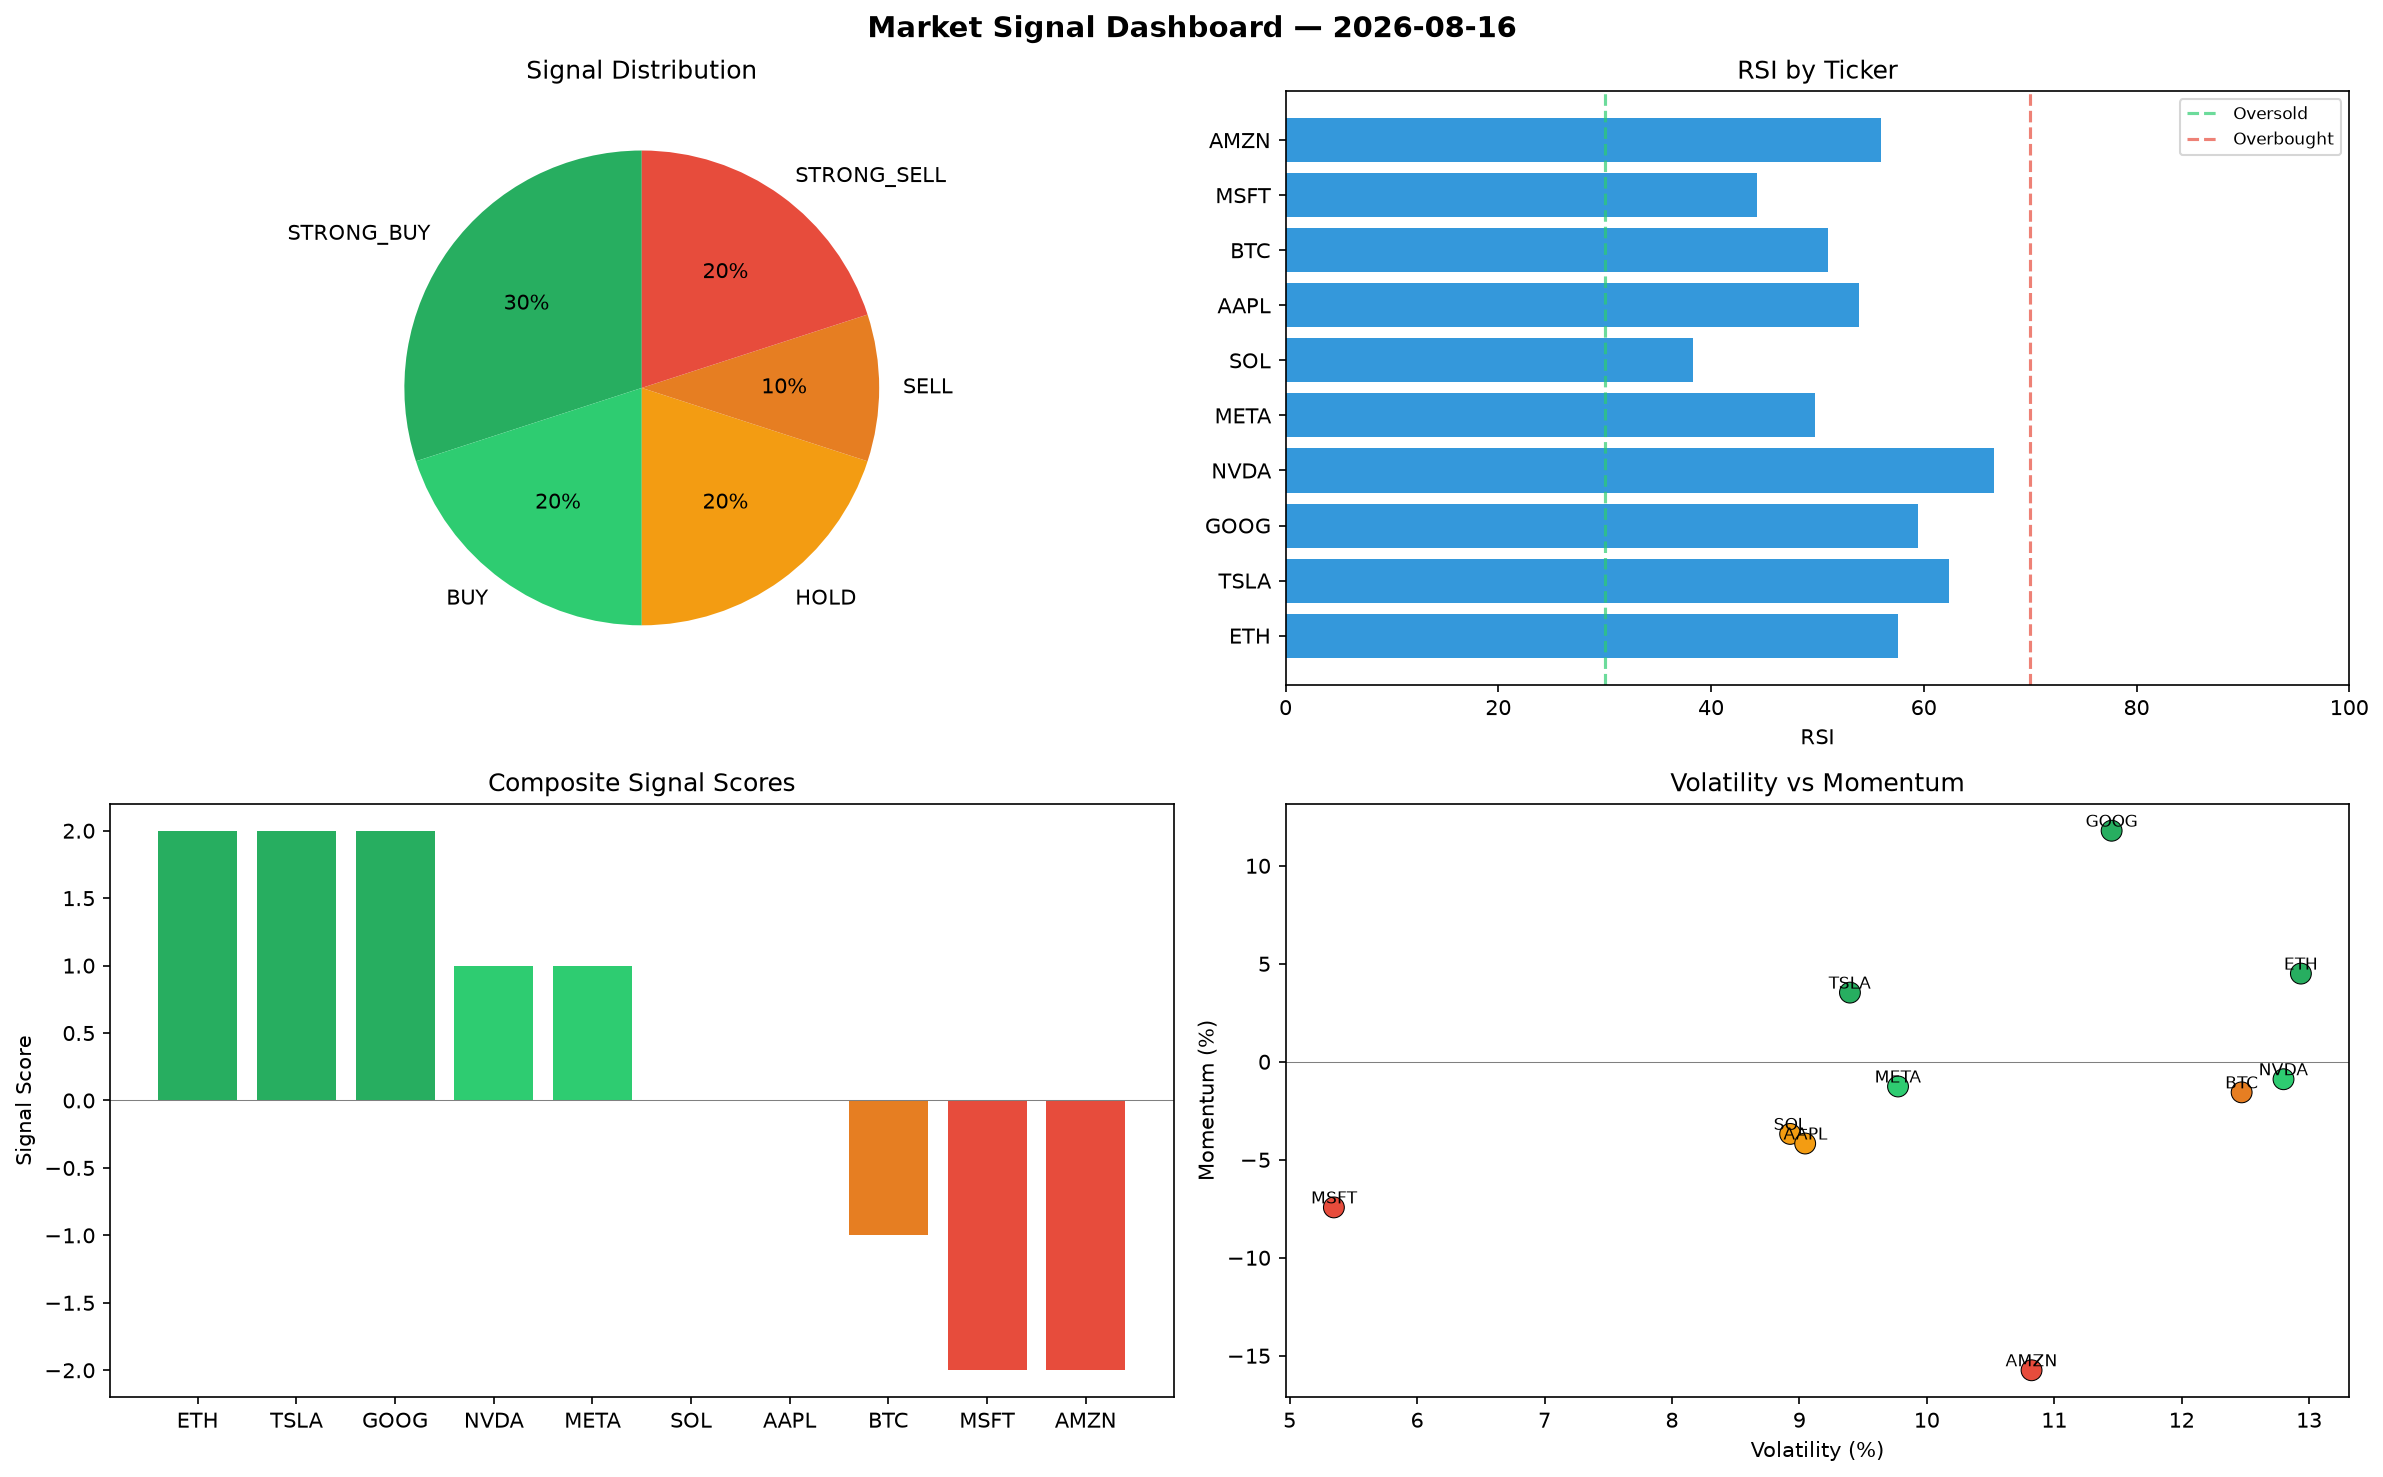
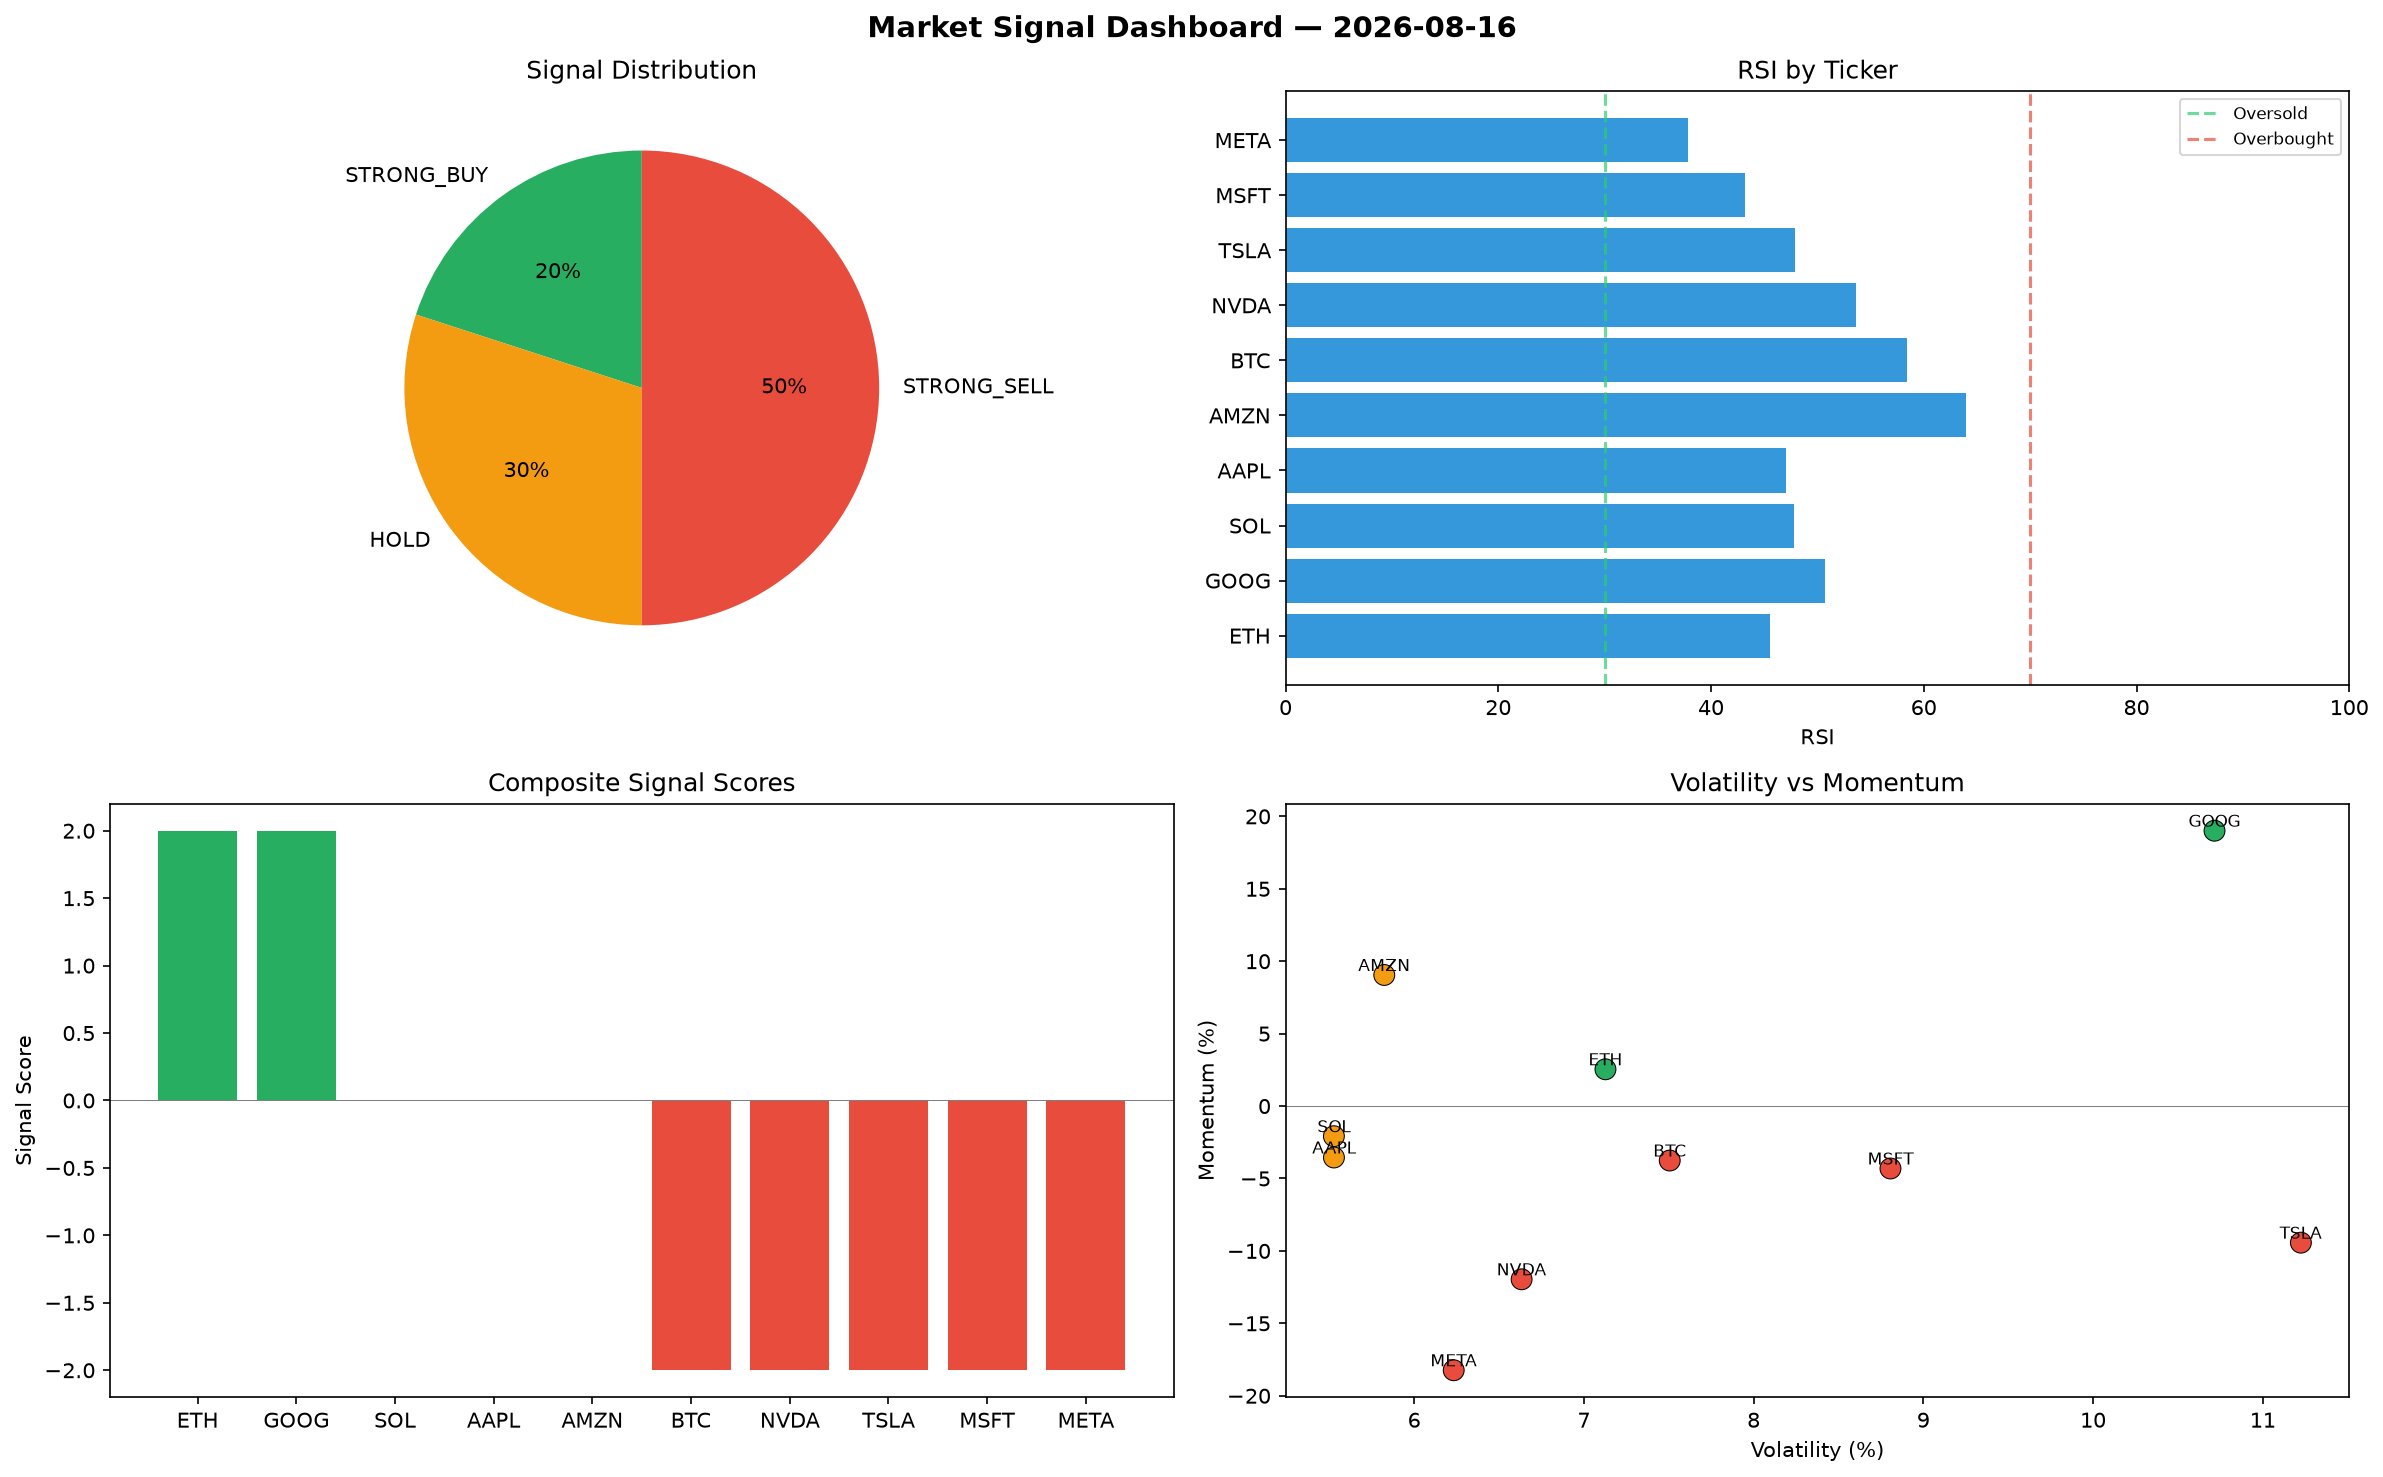
automated-bots: market signals 2026-08-16T14:49

diff --git a/logs/2026-08-16.md b/logs/2026-08-16.md
@@ -1,6 +1,6 @@
 # Market Signal Report — 2026-08-16
 
-**Run ID:** `d17da09024` | **Buy:** 5 | **Sell:** 3 | **Hold:** 2
+**Run ID:** `3098fcb004` | **Buy:** 2 | **Sell:** 5 | **Hold:** 3
 
 ![Dashboard](2026-08-16_dashboard.png)
 
@@ -8,28 +8,28 @@
 
 | Ticker | Price | Signal | Score | RSI | Momentum | Confidence |
 |--------|-------|--------|-------|-----|----------|------------|
-| ETH | $3981.36 | **STRONG_BUY** | 2 | 57.55 | 0.045 | 0.5 |
-| TSLA | $3171.77 | **STRONG_BUY** | 2 | 62.36 | 0.0353 | 0.5 |
-| GOOG | $4809.37 | **STRONG_BUY** | 2 | 59.47 | 0.1179 | 0.5 |
-| NVDA | $918.33 | **BUY** | 1 | 66.59 | -0.0089 | 0.25 |
-| META | $3678.18 | **BUY** | 1 | 49.77 | -0.0126 | 0.25 |
-| SOL | $1694.31 | **HOLD** | 0 | 38.26 | -0.0368 | 0.0 |
-| AAPL | $649.24 | **HOLD** | 0 | 53.94 | -0.0417 | 0.0 |
-| BTC | $1949.44 | **SELL** | -1 | 51.0 | -0.0156 | 0.25 |
-| MSFT | $1883.16 | **STRONG_SELL** | -2 | 44.36 | -0.0743 | 0.5 |
-| AMZN | $2226.49 | **STRONG_SELL** | -2 | 55.96 | -0.1574 | 0.5 |
+| ETH | $1327.44 | **STRONG_BUY** | 2 | 45.56 | 0.0254 | 0.5 |
+| GOOG | $2472.67 | **STRONG_BUY** | 2 | 50.67 | 0.1901 | 0.5 |
+| SOL | $1161.99 | **HOLD** | 0 | 47.81 | -0.0208 | 0.0 |
+| AAPL | $3559.71 | **HOLD** | 0 | 47.01 | -0.0355 | 0.0 |
+| AMZN | $1399.54 | **HOLD** | 0 | 63.95 | 0.0905 | 0.0 |
+| BTC | $2989.32 | **STRONG_SELL** | -2 | 58.45 | -0.0376 | 0.5 |
+| NVDA | $4682.89 | **STRONG_SELL** | -2 | 53.59 | -0.1196 | 0.5 |
+| TSLA | $2085.92 | **STRONG_SELL** | -2 | 47.92 | -0.0943 | 0.5 |
+| MSFT | $929.32 | **STRONG_SELL** | -2 | 43.18 | -0.0431 | 0.5 |
+| META | $1999.24 | **STRONG_SELL** | -2 | 37.83 | -0.1824 | 0.5 |
 
 ## Delta vs Yesterday
 
 | Ticker | Today | Yesterday | Price Change | Signal Changed |
 |--------|-------|-----------|-------------|----------------|
-| ETH | STRONG_BUY | BUY | 📈 1387.91% | ⚠ YES |
-| TSLA | STRONG_BUY | STRONG_BUY | 📈 4636.11% | — |
-| GOOG | STRONG_BUY | STRONG_BUY | 📈 0.29% | — |
-| NVDA | BUY | STRONG_BUY | 📉 -74.26% | ⚠ YES |
-| META | BUY | HOLD | 📈 157.61% | ⚠ YES |
-| SOL | HOLD | STRONG_SELL | 📉 -38.04% | ⚠ YES |
-| AAPL | HOLD | SELL | 📉 -79.71% | ⚠ YES |
-| BTC | SELL | STRONG_SELL | 📈 0.77% | ⚠ YES |
-| MSFT | STRONG_SELL | STRONG_SELL | 📉 -62.17% | — |
-| AMZN | STRONG_SELL | BUY | 📉 -42.79% | ⚠ YES |
+| ETH | STRONG_BUY | BUY | 📈 396.09% | ⚠ YES |
+| GOOG | STRONG_BUY | STRONG_BUY | 📉 -48.44% | — |
+| SOL | HOLD | STRONG_SELL | 📉 -57.51% | ⚠ YES |
+| AAPL | HOLD | SELL | 📈 11.23% | ⚠ YES |
+| AMZN | HOLD | BUY | 📉 -64.04% | ⚠ YES |
+| BTC | STRONG_SELL | STRONG_SELL | 📈 54.53% | — |
+| NVDA | STRONG_SELL | STRONG_BUY | 📈 31.26% | ⚠ YES |
+| TSLA | STRONG_SELL | STRONG_BUY | 📈 3014.71% | ⚠ YES |
+| MSFT | STRONG_SELL | STRONG_SELL | 📉 -81.33% | — |
+| META | STRONG_SELL | HOLD | 📈 40.02% | ⚠ YES |
